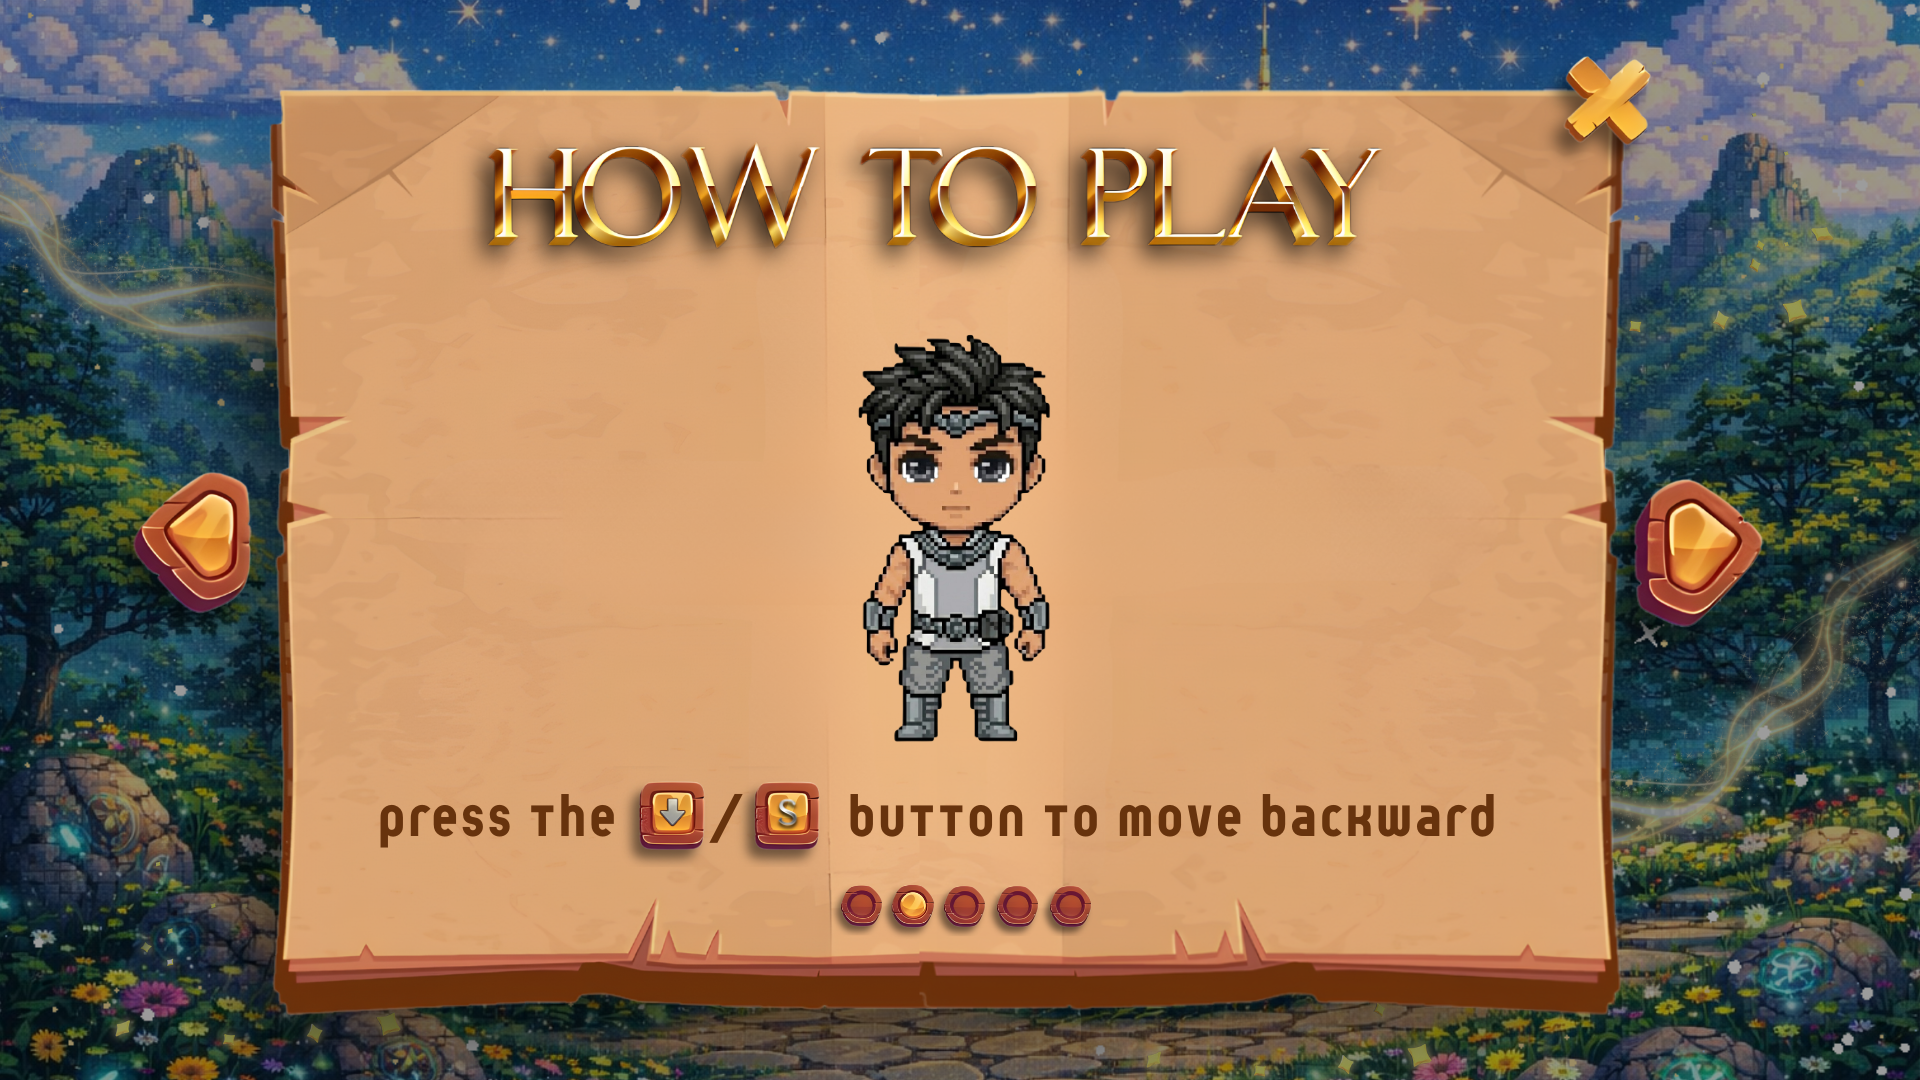
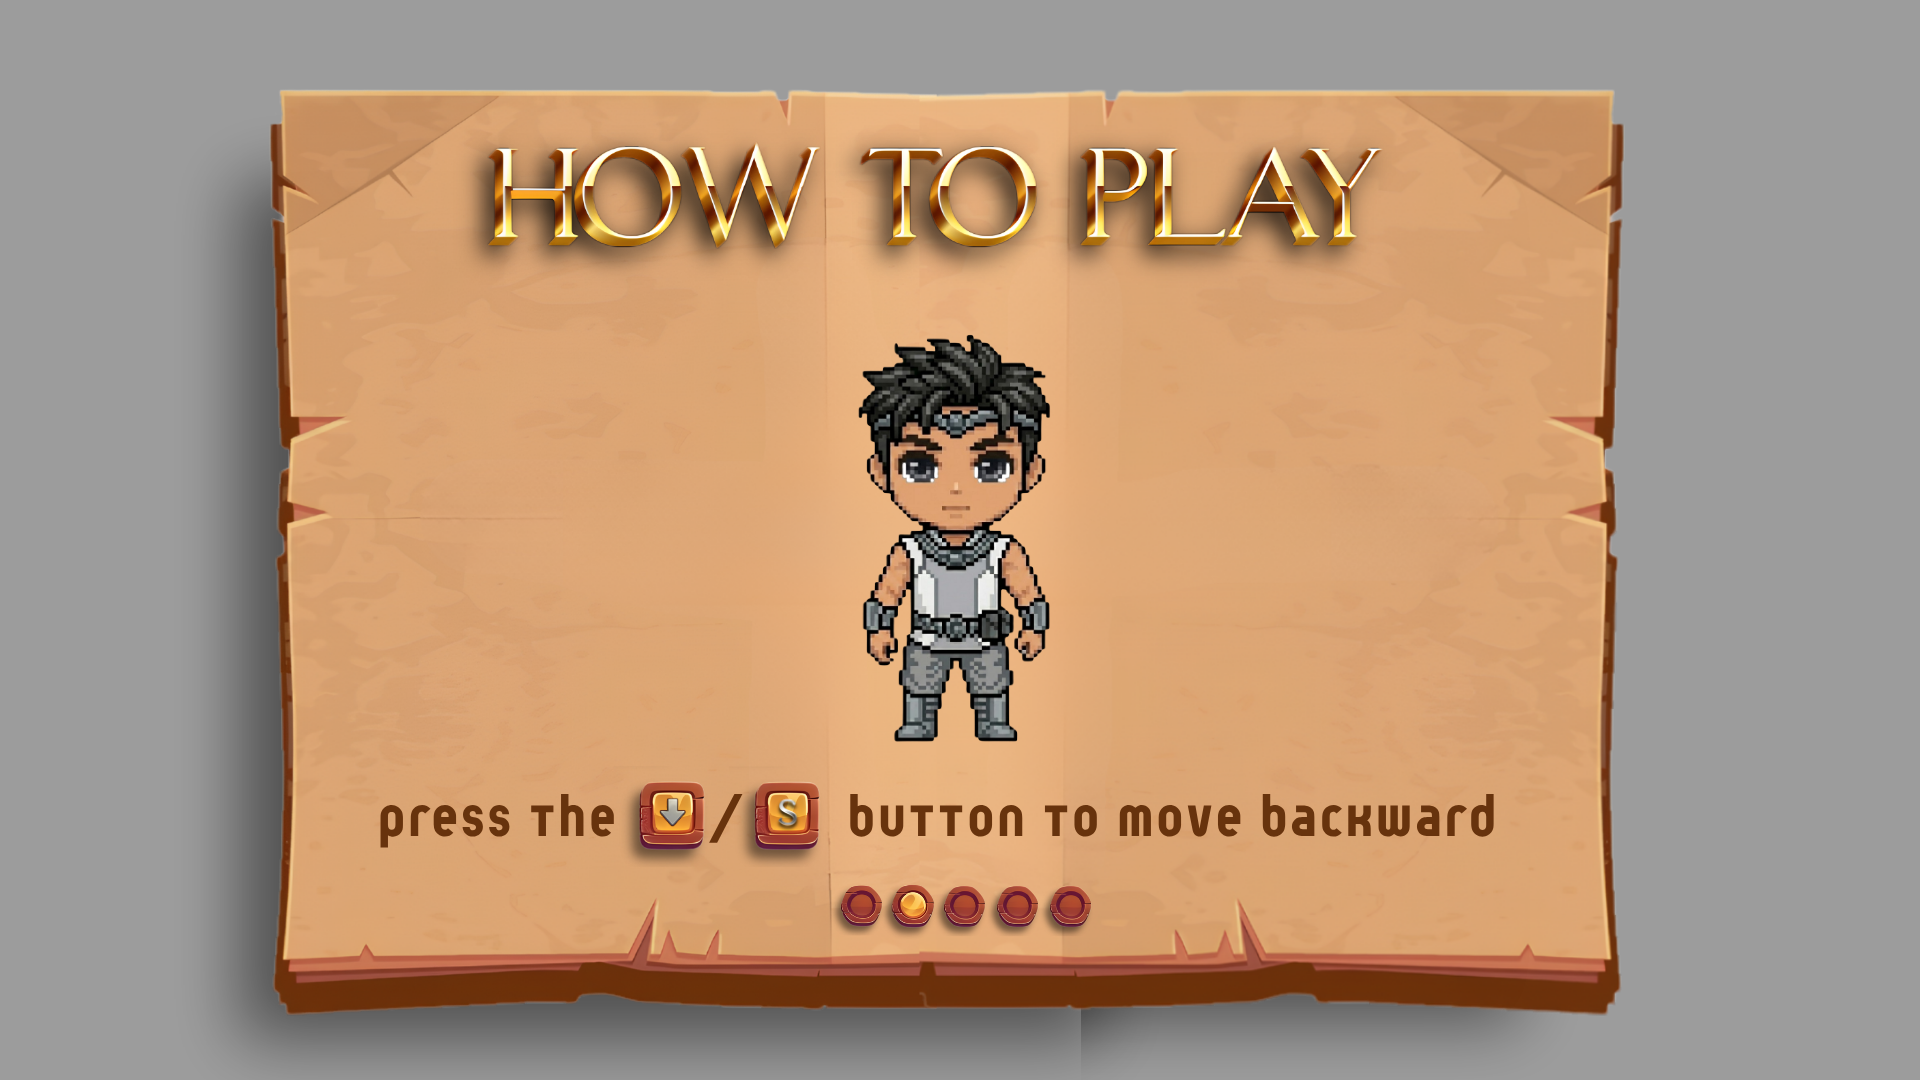
instructions panel

diff --git a/src/ui/InstructionsPanel.java b/src/ui/InstructionsPanel.java
@@ -1,106 +1,170 @@
 package ui;
 
 import assets.AssetManager;
-import main.GameLauncher;
-
-import javax.swing.*;
 import java.awt.*;
-import java.awt.event.KeyAdapter;
-import java.awt.event.KeyEvent;
+import java.awt.event.*;
+import javax.swing.*;
+import main.GameLauncher;
 
 public class InstructionsPanel extends JPanel {
 
     private GameLauncher parent;
-
-    // Array of instruction pages
     private Image[] pages;
-
-    // Current page index
+    private Image background;
     private int currentPage = 0;
+
+    private JButton leftButton;
+    private JButton rightButton;
+    private JButton xButton;
+
+    private static final int BTN_SIZE = 64;
 
     public InstructionsPanel(GameLauncher parent) {
         this.parent = parent;
+
         setFocusable(true);
+        setLayout(null);
+
+        background = AssetManager.getInstance().getBackground("title");
+
         loadPages();
+        setupButtons();
         setupKeys();
+
+        requestFocusInWindow();
     }
-        private void setupKeys() {
 
+    private ImageIcon scaleIcon(Image img, int width, int height) {
+        return new ImageIcon(img.getScaledInstance(width, height, Image.SCALE_SMOOTH));
+    }
+
+    private void animateButtonPress(JButton btn) {
+        Point original = btn.getLocation();
+        btn.setLocation(original.x, original.y + 5);
+
+        Timer timer = new Timer(80, e -> btn.setLocation(original));
+        timer.setRepeats(false);
+        timer.start();
+    }
+
+    private void updateButtonVisibility() {
+        leftButton.setVisible(currentPage > 0);
+        rightButton.setVisible(currentPage < pages.length - 1);
+    }
+
+    private void setupButtons() {
+
+        Image leftImg = AssetManager.getInstance().getButton("leftArrow");
+        Image rightImg = AssetManager.getInstance().getButton("rightArrow");
+        Image exitImg = AssetManager.getInstance().getButton("xButton");
+
+        leftButton = new JButton(scaleIcon(leftImg, BTN_SIZE, BTN_SIZE));
+        rightButton = new JButton(scaleIcon(rightImg, BTN_SIZE, BTN_SIZE));
+        xButton = new JButton(scaleIcon(exitImg, BTN_SIZE, BTN_SIZE));
+
+        for (JButton btn : new JButton[]{leftButton, rightButton, xButton}) {
+            btn.setBorderPainted(false);
+            btn.setContentAreaFilled(false);
+            btn.setFocusPainted(false);
+            btn.setOpaque(false);
+            add(btn);
+        }
+
+        leftButton.addActionListener(e -> {
+            animateButtonPress(leftButton);
+
+            if (currentPage > 0) {
+                currentPage--;
+                repaint();
+                updateButtonVisibility();
+            }
+        });
+
+        rightButton.addActionListener(e -> {
+            animateButtonPress(rightButton);
+
+            if (currentPage < pages.length - 1) {
+                currentPage++;
+                repaint();
+                updateButtonVisibility();
+            }
+        });
+
+        xButton.addActionListener(e -> {
+            animateButtonPress(xButton);
+
+            Timer t = new Timer(100, ev -> parent.showMainMenu());
+            t.setRepeats(false);
+            t.start();
+        });
+
+        addComponentListener(new ComponentAdapter() {
+            @Override
+            public void componentResized(ComponentEvent e) {
+                int w = getWidth();
+                int h = getHeight();
+
+                leftButton.setBounds(20, h / 2 - BTN_SIZE / 2, BTN_SIZE, BTN_SIZE);
+                rightButton.setBounds(w - BTN_SIZE - 20, h / 2 - BTN_SIZE / 2, BTN_SIZE, BTN_SIZE);
+                xButton.setBounds(w - BTN_SIZE - 110, 20, BTN_SIZE, BTN_SIZE);
+            }
+        });
+
+        updateButtonVisibility();
+    }
+
+    private void setupKeys() {
         addKeyListener(new KeyAdapter() {
-
             @Override
             public void keyPressed(KeyEvent e) {
 
                 switch (e.getKeyCode()) {
 
-                    // NEXT PAGE
                     case KeyEvent.VK_RIGHT:
-
                         if (currentPage < pages.length - 1) {
-
                             currentPage++;
                             repaint();
-
-                        } else {
-
-                            // Last page -> back to menu
-                            currentPage = 0;
-                            parent.showMainMenu();
+                            updateButtonVisibility();
                         }
-
                         break;
 
-                        // PREVIOUS PAGE
                     case KeyEvent.VK_LEFT:
-
                         if (currentPage > 0) {
-
                             currentPage--;
                             repaint();
+                            updateButtonVisibility();
                         }
-
                         break;
 
-                    // EXIT INSTRUCTIONS
                     case KeyEvent.VK_ESCAPE:
-
                         currentPage = 0;
                         parent.showMainMenu();
-
                         break;
                 }
             }
         });
-    
     }
 
     private void loadPages() {
-
-    pages = new Image[] {
-
-            AssetManager.getInstance().getBackground("instruction1"),
-            AssetManager.getInstance().getBackground("instruction2"),
-            AssetManager.getInstance().getBackground("instruction3"),
-            AssetManager.getInstance().getBackground("instruction4"),
-            AssetManager.getInstance().getBackground("instruction5")
-    };
-}
+        pages = new Image[]{
+            AssetManager.getInstance().getInstructions("instruction1"),
+            AssetManager.getInstance().getInstructions("instruction2"),
+            AssetManager.getInstance().getInstructions("instruction3"),
+            AssetManager.getInstance().getInstructions("instruction4"),
+            AssetManager.getInstance().getInstructions("instruction5")
+        };
+    }
 
     @Override
     protected void paintComponent(Graphics g) {
         super.paintComponent(g);
 
-        if(pages[currentPage] != null) {
-            g.drawImage(
-                    pages[currentPage],
-                    0,
-                    0,
-                    getWidth(),
-                    getHeight(),
-                    this
-            );
+        if (background != null) {
+            g.drawImage(background, 0, 0, getWidth(), getHeight(), this);
         }
 
-    
+        if (pages != null && pages[currentPage] != null) {
+            g.drawImage(pages[currentPage], 0, 0, getWidth(), getHeight(), this);
+        }
     }
 }

diff --git a/src/assets/AssetManager.java b/src/assets/AssetManager.java
@@ -60,6 +60,8 @@ public class AssetManager {
     /* POPUPS */
     private final Map<String, Image> popups = new HashMap<>();
 
+    private final Map<String, Image> instructions = new HashMap<>();
+
     private AssetManager() {
         loadLogo();
         loadBackgrounds();
@@ -77,6 +79,7 @@ public class AssetManager {
         loadFonts();
         loadGameOver();
         loadPopups();
+        loadInstructions();
     }
 
     public static AssetManager getInstance() {
@@ -98,11 +101,6 @@ public class AssetManager {
         backgrounds.put("mapSelect", loadImage("assets/Backgrounds/mapSelectBackground.png"));
         backgrounds.put("leaderboard", loadImage("assets/Backgrounds/leaderboardPanel.png"));
         backgrounds.put("initials", loadImage("assets/Backgrounds/initialsBackground.png"));
-        backgrounds.put("instruction1", loadImage("assets/instructions/page1.png"));
-        backgrounds.put("instruction2", loadImage("assets/instructions/page2.png"));
-        backgrounds.put("instruction3", loadImage("assets/instructions/page3.png"));
-        backgrounds.put("instruction4", loadImage("assets/instructions/page4.png"));
-        backgrounds.put("instruction5", loadImage("assets/instructions/page5.png"));
     }
 
     private void loadButtons() {
@@ -124,6 +122,11 @@ public class AssetManager {
 
         // Popup Dialog
         buttons.put("ok2", loadImage("assets/Buttons/okButton2.png"));
+
+        // Instructions Button
+        buttons.put("leftArrow", loadImage("assets/Buttons/leftArrowButton.png"));
+        buttons.put("rightArrow", loadImage("assets/Buttons/rightArrowButton.png"));
+        buttons.put("xButton", loadImage("assets/Buttons/exButton.png"));
     }
 
     private void loadObstacles() {
@@ -337,6 +340,14 @@ public class AssetManager {
         popups.put("initialsInput", loadImage("assets/Popups/initialsInputPopup.png"));
     }
 
+    private void loadInstructions() {
+        instructions.put("instruction1", loadImage("assets/instructions/page1.png"));
+        instructions.put("instruction2", loadImage("assets/instructions/page2.png"));
+        instructions.put("instruction3", loadImage("assets/instructions/page3.png"));
+        instructions.put("instruction4", loadImage("assets/instructions/page4.png"));
+        instructions.put("instruction5", loadImage("assets/instructions/page5.png"));
+    }
+
     public Image getCharacterCard(PlayerType type) {
         return characterCards.get(type);
     }
@@ -403,5 +414,9 @@ public class AssetManager {
 
     public Image getPopup(String key) {
         return popups.get(key);
+    }
+
+    public Image getInstructions(String key) {
+        return instructions.get(key);
     }
 }
